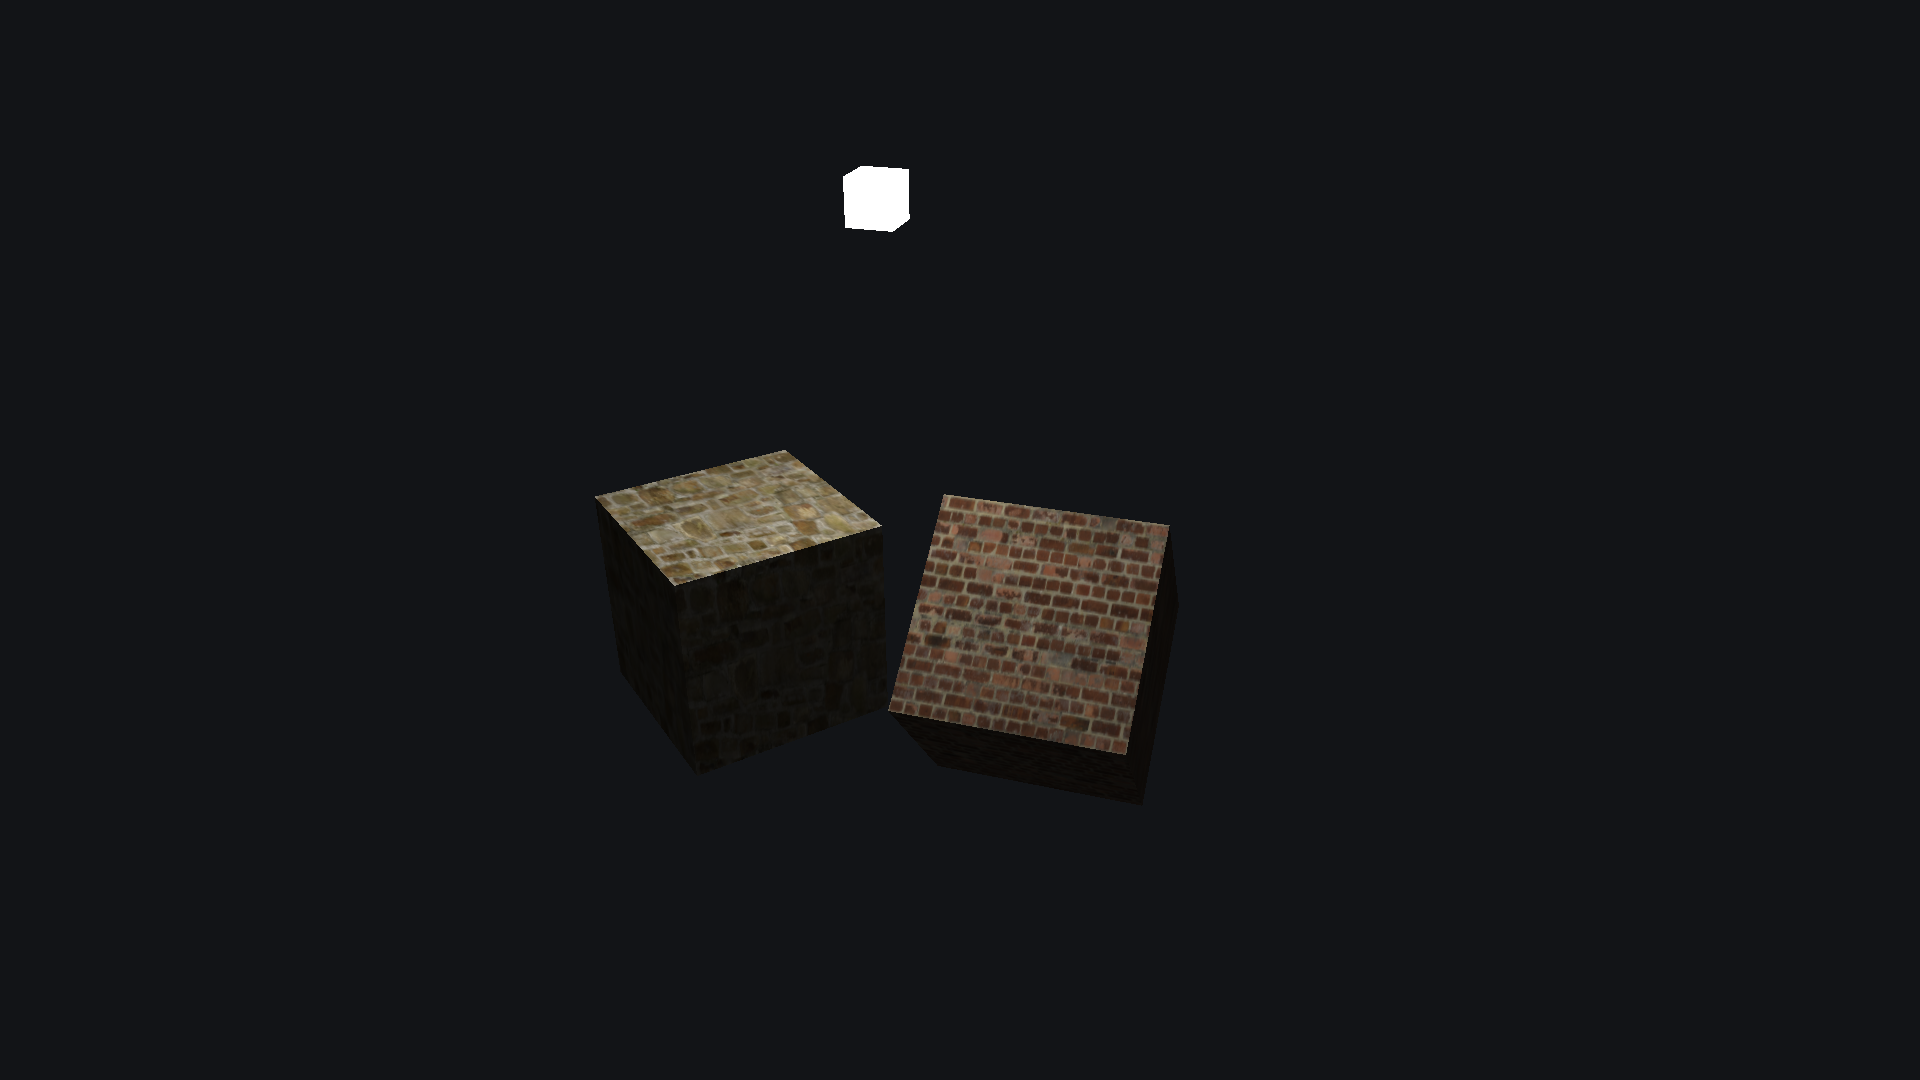
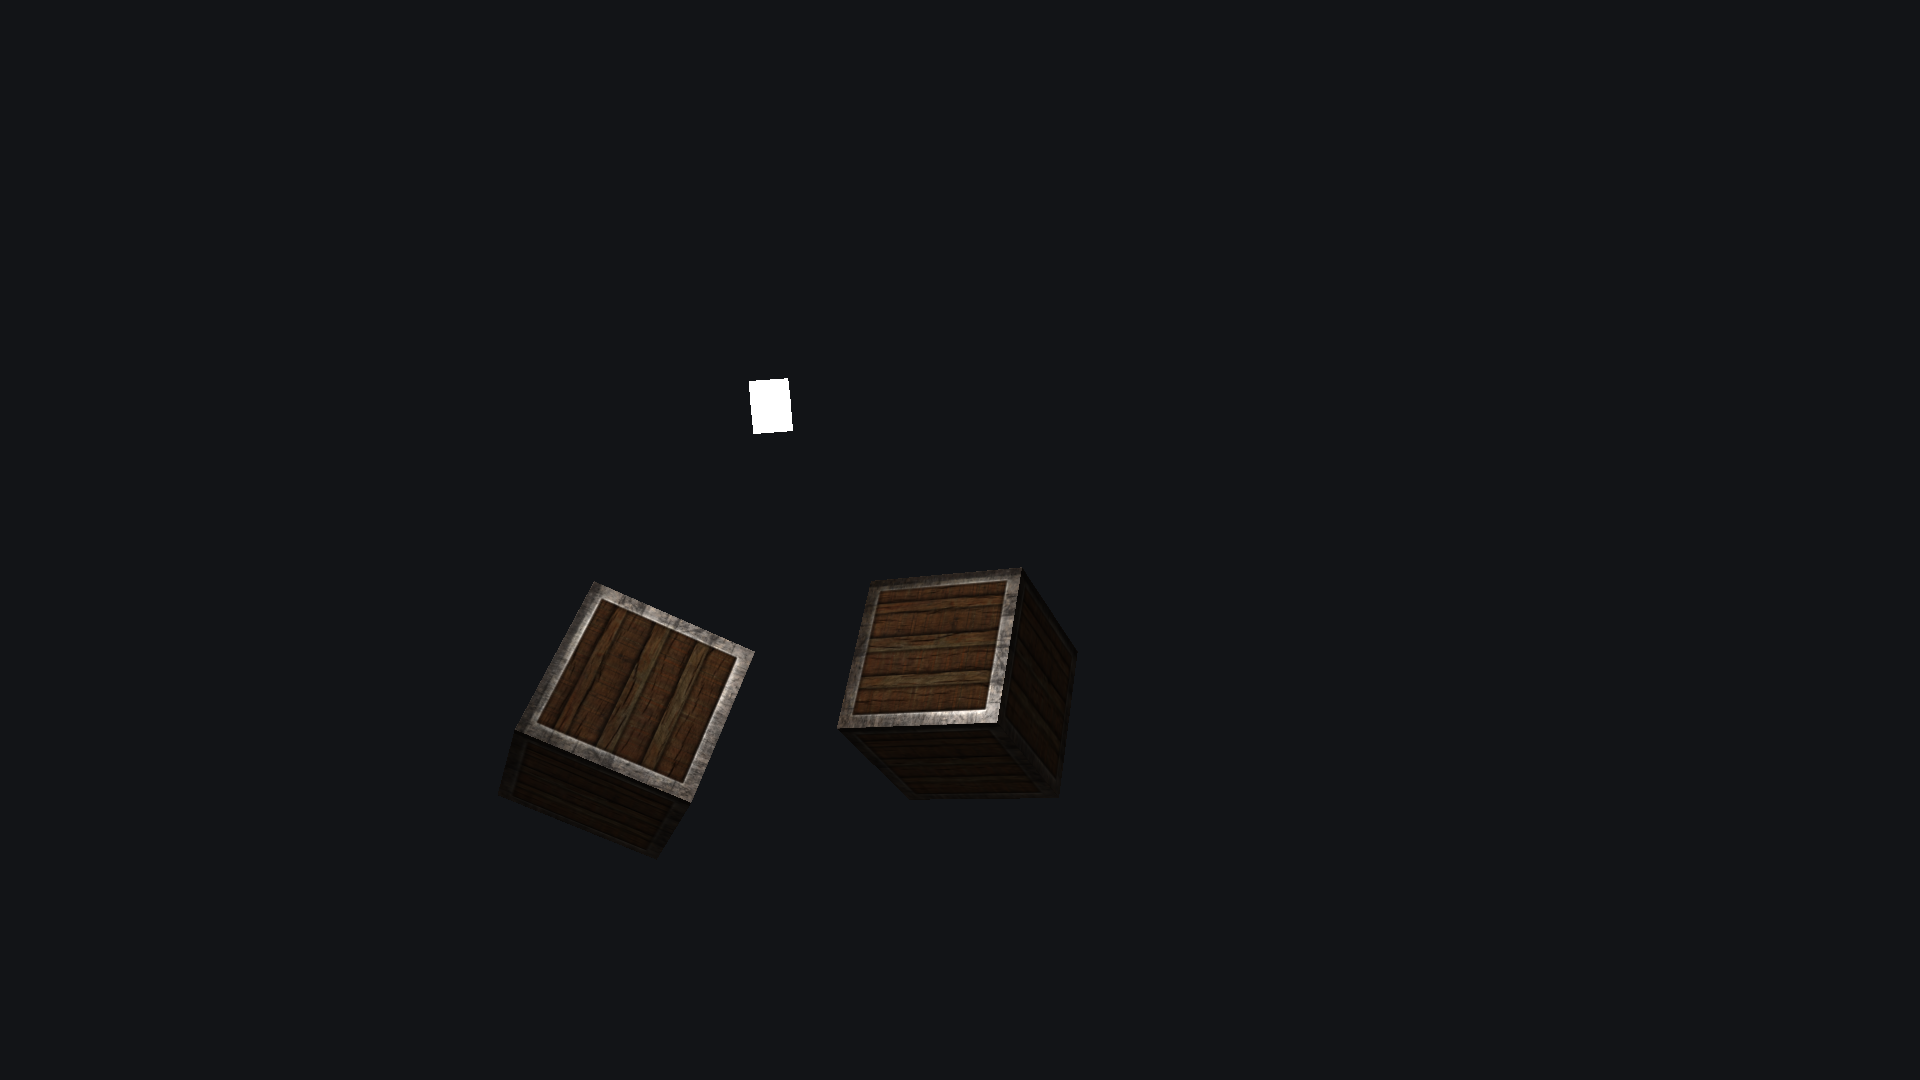
feat : diffusion and specular maps

Changed region(s): [[0.25, 0.3361, 0.625, 0.7333], [0.4375, 0.1528, 0.5, 0.2139]]

diff --git a/main.cpp b/main.cpp
@@ -44,6 +44,7 @@ struct Mesh3D {
   GLuint mIndexBufferObject = 0;
   Shader *mShader = nullptr;
   GLuint mTexture;
+  GLuint mSpecularMap;
   Transform mTransform;
 };
 
@@ -211,13 +212,17 @@ void drawMesh(Mesh3D *mesh) {
   sh.setVec3("light.diffuse", 0.5f, 0.5f, 0.5f);
   sh.setVec3("light.specular", 1.0f, 1.0f, 1.0f);
 
-  sh.setVec3("material.ambient", 1.0f, 1.0f, 1.0f);
-  sh.setVec3("material.diffuse", 1.0f, 1.0f, 1.0f);
-  sh.setVec3("material.specular", 0.1f, 0.1f, 0.1f);
+  sh.setInt("material.specular", 1);
   sh.setFloat("material.shininess", 8.0f);
-
-  glBindVertexArray(mesh->mVertexArrayObject);
+  
+  // Diffuse map (normal texture)
+  glad_glActiveTexture(GL_TEXTURE0);
   glBindTexture(GL_TEXTURE_2D, mesh->mTexture);
+  // Specular map (b/w texture)
+  glad_glActiveTexture(GL_TEXTURE1);
+  glBindTexture(GL_TEXTURE_2D, mesh->mSpecularMap);
+  
+  glBindVertexArray(mesh->mVertexArrayObject);
   glDrawElements(GL_TRIANGLES, 36, GL_UNSIGNED_INT, 0);
 }
 
@@ -375,8 +380,10 @@ int main() {
   gApp.mCamera.SetProjectionMatrix(glm::radians(45.0f), (float)gApp.mScreenWidth / (float)gApp.mScreenHeight, 0.1f,
                                    100.0f);
 
-  gMesh1.mTexture = generateTexture("../assets/brick.jpg");
-  gMesh2.mTexture = generateTexture("../assets/wall.jpg");
+  gMesh1.mTexture = generateTexture("../assets/container2.png");
+  gMesh2.mTexture = generateTexture("../assets/container2.png");
+  gMesh1.mSpecularMap = generateTexture("../assets/container2_specular.png");
+  gMesh2.mSpecularMap = generateTexture("../assets/container2_specular.png");
 
   meshCreate(&gMesh1);
   meshCreate(&gMesh2);